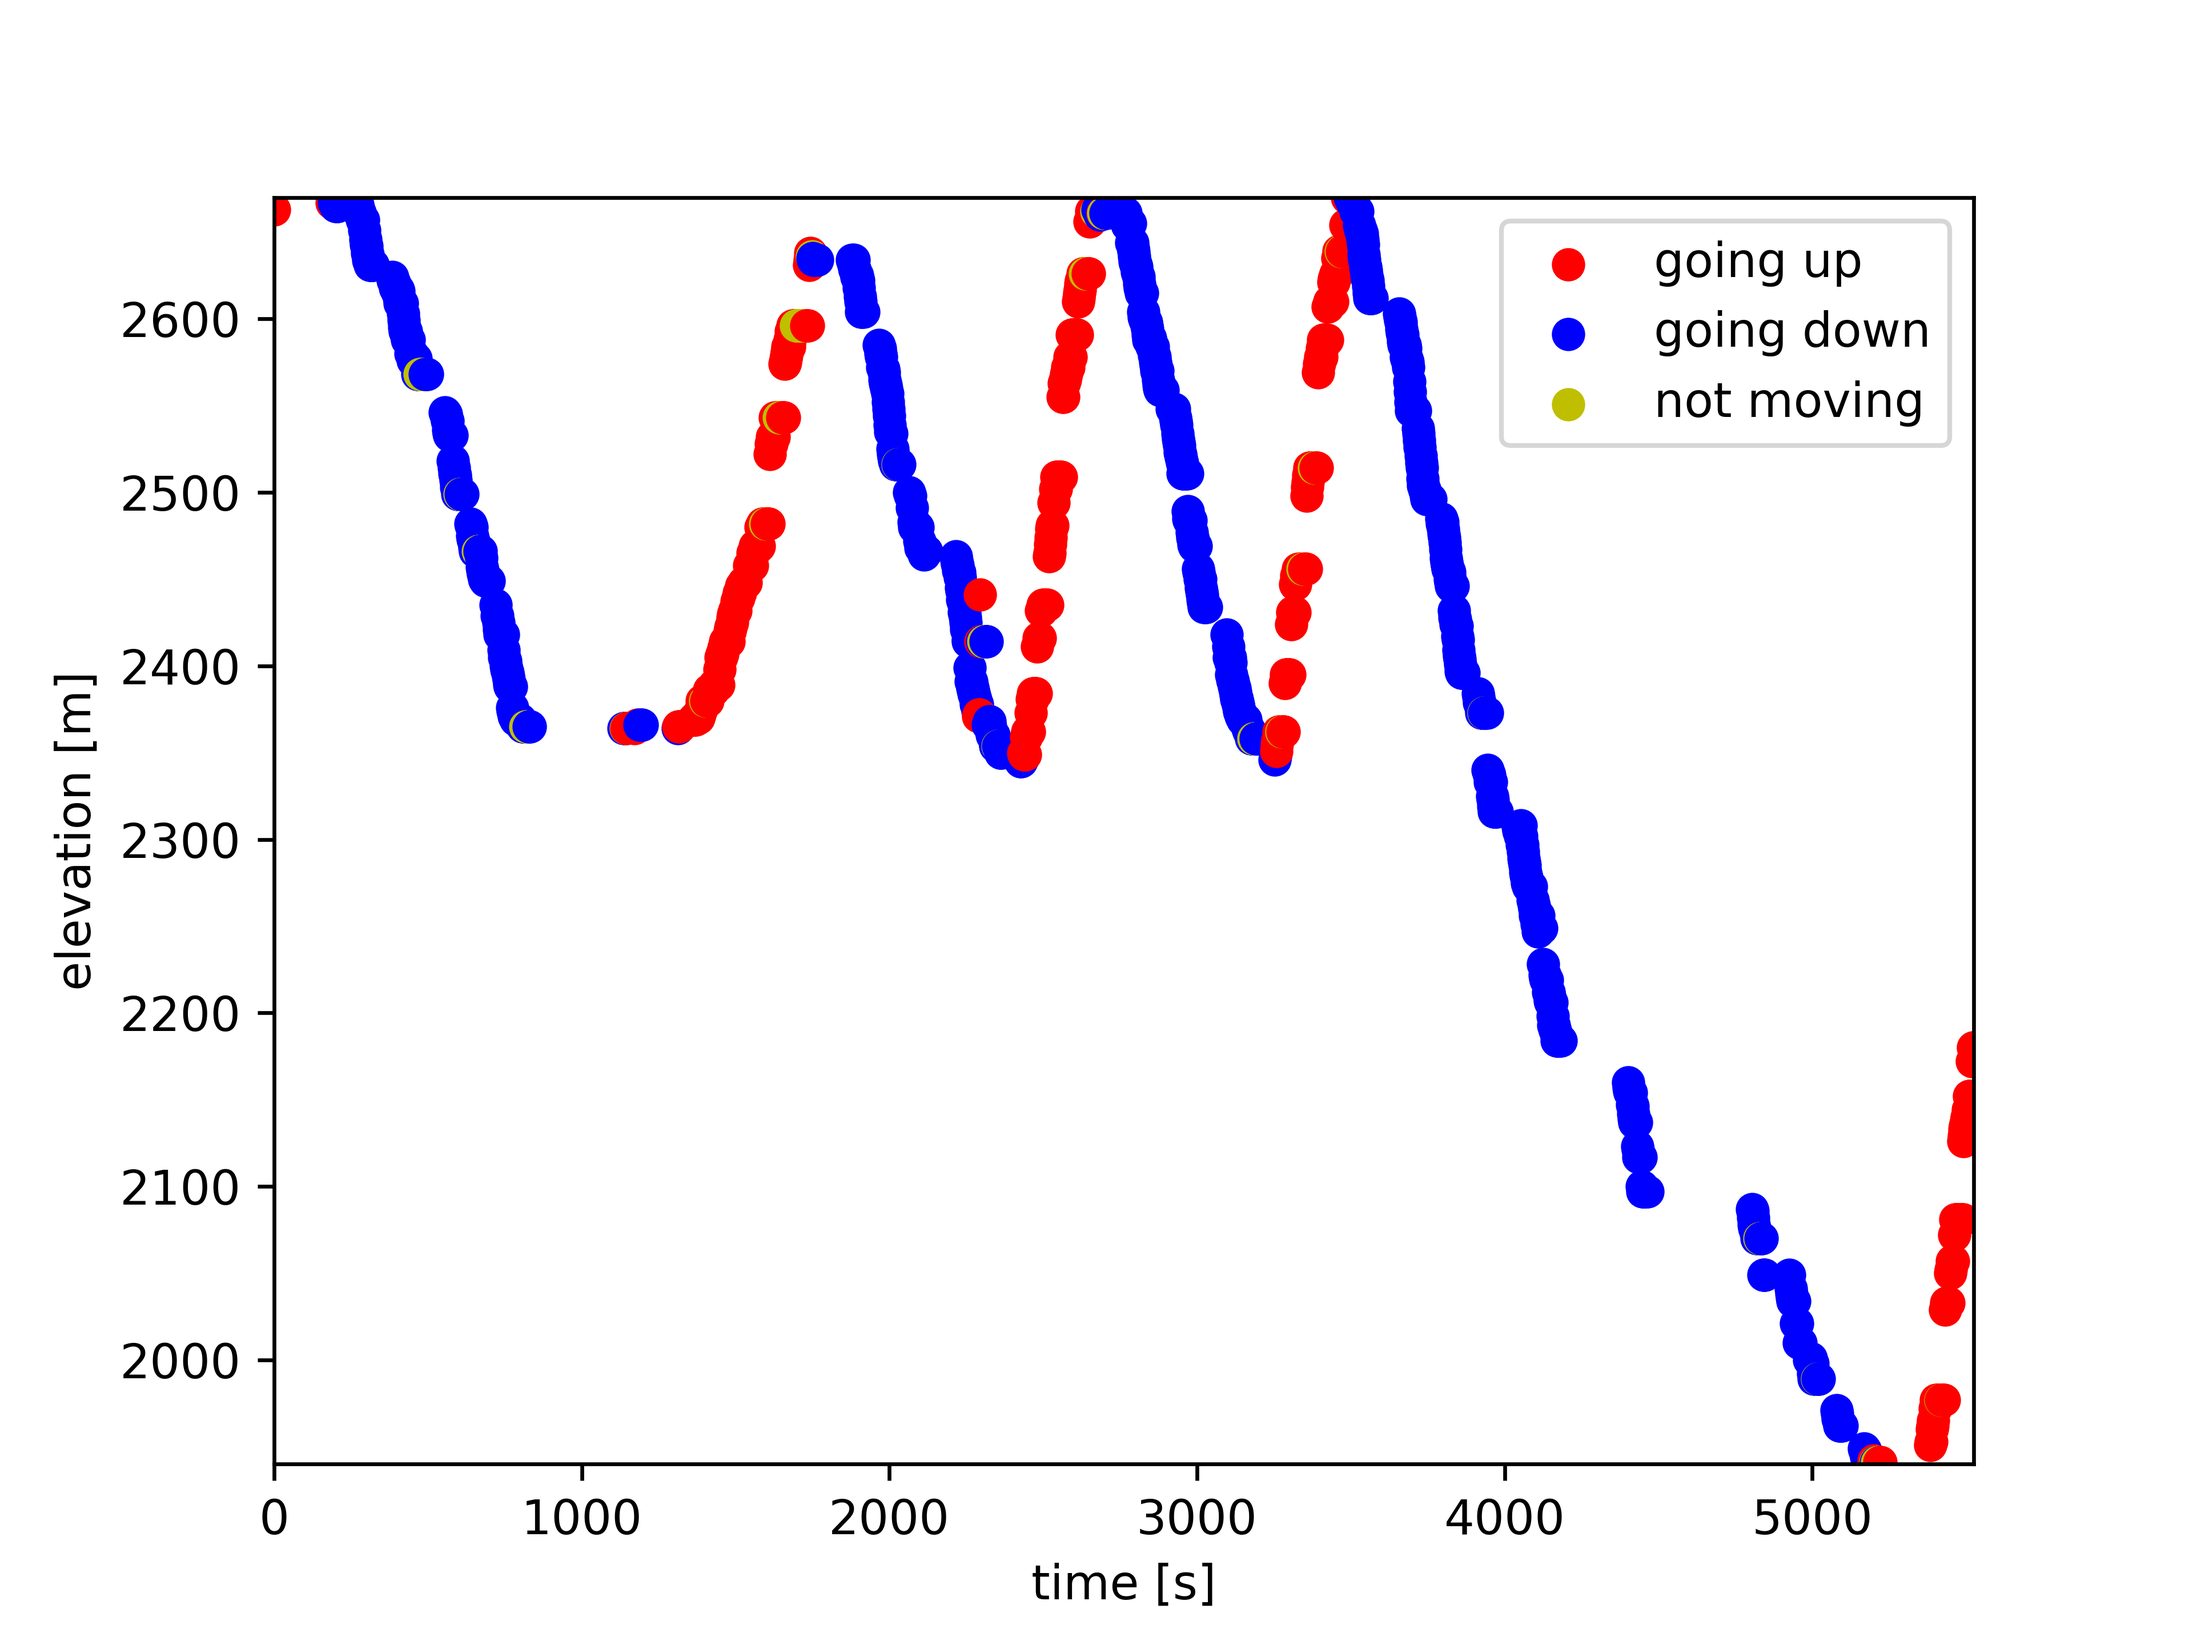
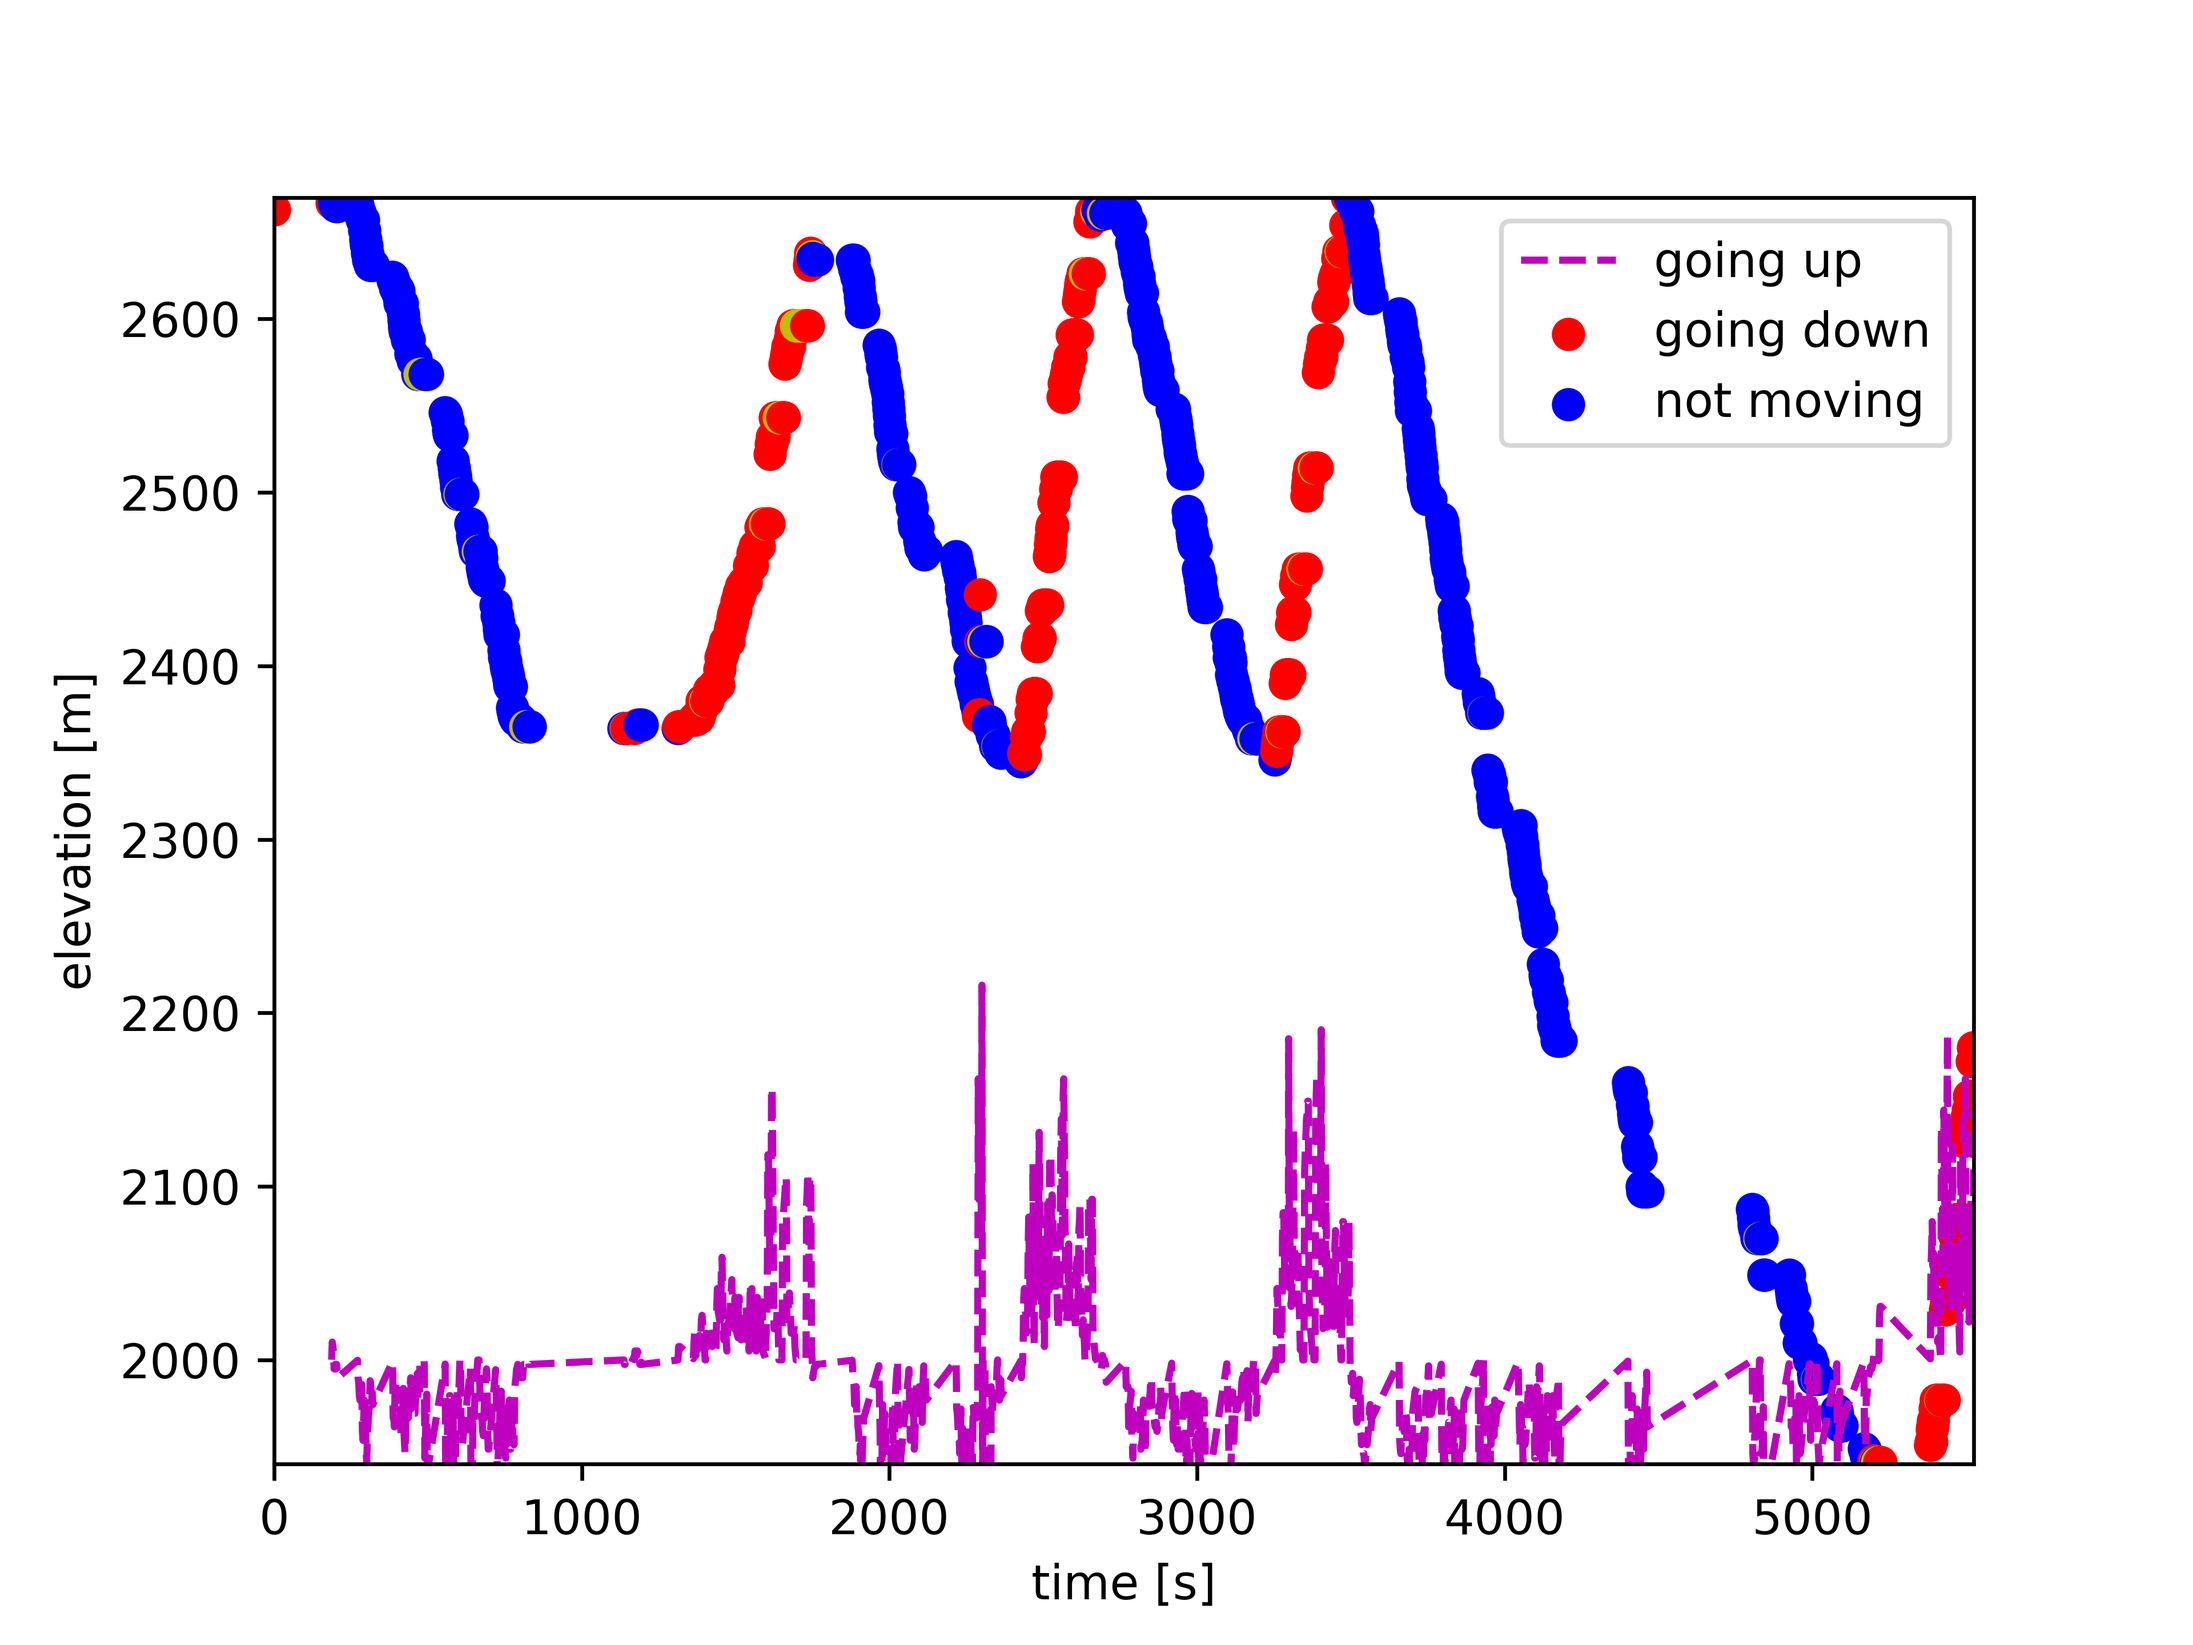
:star2: feat: z_velocity

Changed region(s): [[0.1562, 0.625, 0.9062, 0.9062], [0.6875, 0.1562, 0.7188, 0.25]]

diff --git a/plot.py b/plot.py
@@ -35,12 +35,17 @@ times = [p.time for p in points]
 t_min = min(times)
 durations = [(t - t_min).total_seconds() for t in times]
 heights = [p.elevation for p in points]
-delta_h = smooth(np.append(0, np.diff(heights)), 7)
+delta_h = np.diff(heights)
+delta_h_filt = smooth(np.append(0, delta_h), 7)
 
+delta_t = np.diff(durations)
+v_z = delta_h_filt/np.append(0, delta_t)
+print(v_z)
+plt.plot(durations, v_z*36+2000, '--m')
 for ix in range(len(durations)):
-    if delta_h[ix] > 0:
+    if delta_h_filt[ix] > 0:
         c = 'r'
-    elif delta_h[ix] == 0:
+    elif delta_h_filt[ix] == 0:
         c = 'y'
     else:
         c = 'b'
